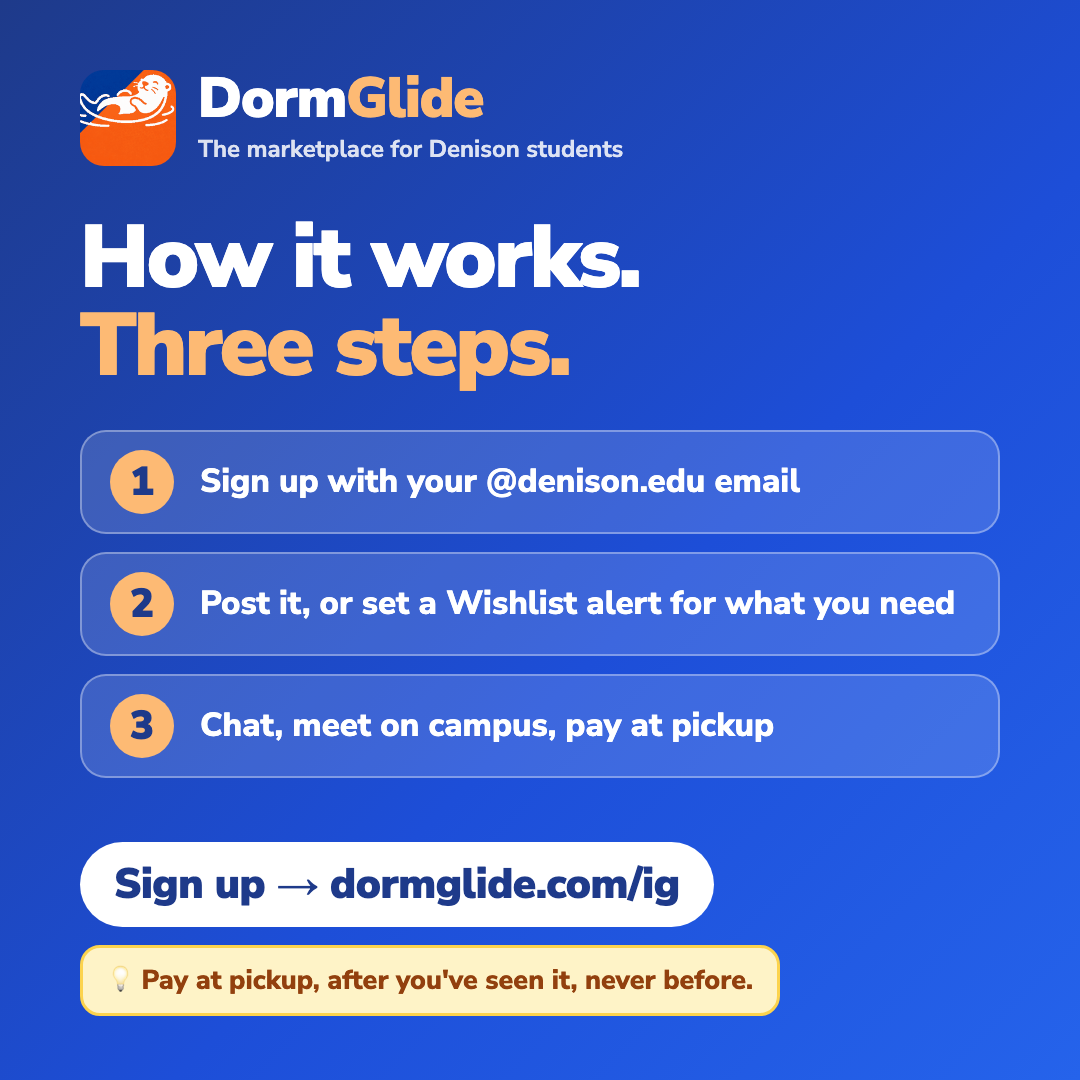
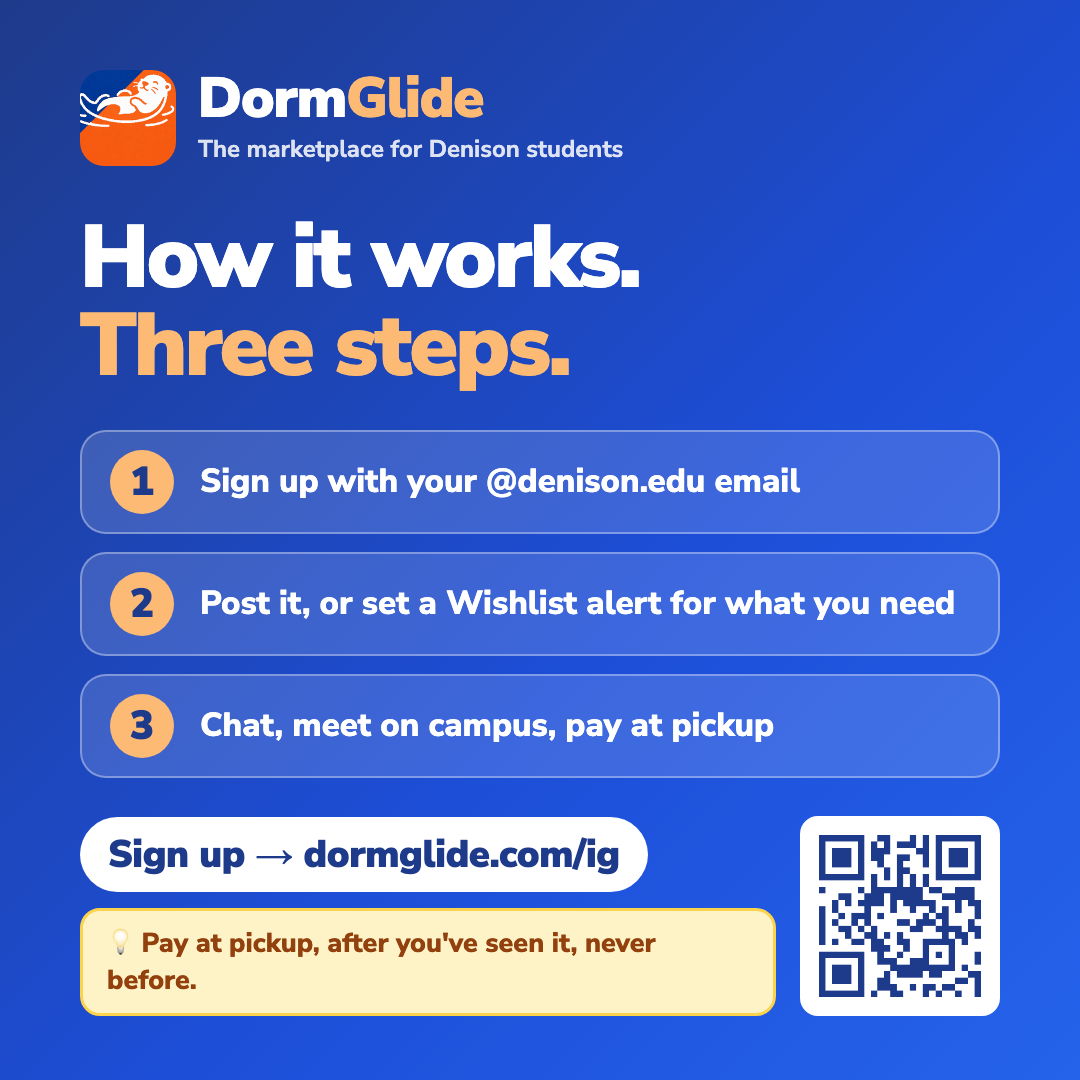
Instagram: QR code to /ig on every post and story; forgiving 404 redirect for typed short links

Changed region(s): [[0.0611, 0.7333, 0.9472, 0.9472]]

diff --git a/marketing/instagram/04-sold-apple-pencil.html b/marketing/instagram/04-sold-apple-pencil.html
@@ -26,6 +26,6 @@ p.lead { font-size:34px; line-height:1.3; font-weight:700; margin:26px 0 0; max-
 .url { font-size:42px; font-weight:900; letter-spacing:-0.01em; background:#fff; color:#1e3a8a; border-radius:999px; padding:14px 34px; } .orange .url { color:#c2410c; }
 .rule { background:#fef3c7; color:#92400e; border:3px solid #fcd34d; border-radius:20px; padding:14px 24px; font-size:27px; font-weight:800; }
 .otter { position:absolute; right:60px; top:230px; width:380px; opacity:.95; filter:drop-shadow(0 12px 30px rgba(0,0,0,.25)); }
-</style></head><body><div class="post"><div class="top"><img src="otter-mark.png"><div><div class="wm">Dorm<em>Glide</em></div><div class="tag">The marketplace for Denison students</div></div></div><div class="ribbon">SOLD</div><h1>Small stuff<br><span>sells too.</span></h1>
+.bottom{flex-direction:row !important;align-items:flex-end !important;justify-content:space-between;gap:24px} .bl{display:flex;flex-direction:column;align-items:flex-start;gap:16px} .bqr{width:200px;height:200px;border-radius:18px;border:6px solid #fff;background:#fff;flex-shrink:0} .url{font-size:38px !important;padding:12px 28px !important;white-space:nowrap}.sold img.photo{width:170px !important;height:210px !important} .sold{margin-top:36px !important;padding:22px 30px !important} h1{font-size:80px !important;margin-top:36px !important} p.lead{font-size:30px !important;margin-top:20px !important}</style></head><body><div class="post"><div class="top"><img src="otter-mark.png"><div><div class="wm">Dorm<em>Glide</em></div><div class="tag">The marketplace for Denison students</div></div></div><div class="ribbon">SOLD</div><h1>Small stuff<br><span>sells too.</span></h1>
    <div class="sold"><img class="photo" src="apple-pencil.jpg"><div><div class="name">Apple Pencil</div><div class="meta">Sold by a Denison student to a Denison student</div></div></div>
-   <p class="lead">Textbooks, chargers, lamps, calculators. If you're done with it, someone isn't.</p><div class="bottom"><div class="url">Sign up → dormglide.com/ig</div><div class="rule">💡 Free to use. No fees, ever.</div></div></div></body></html>
+   <p class="lead">Textbooks, chargers, lamps, calculators. If you're done with it, someone isn't.</p><div class="bottom"><div class="bl"><div class="url">Sign up → dormglide.com/ig</div><div class="rule">💡 Free to use. No fees, ever.</div></div><img class="bqr" src="qr-ig.png"></div></div></body></html>

diff --git a/marketing/instagram/stories/s2-how-it-works.html b/marketing/instagram/stories/s2-how-it-works.html
@@ -24,4 +24,4 @@ p.lead{font-size:42px;line-height:1.32;font-weight:700;margin:44px 0 0;opacity:.
 .orange .cta{color:#c2410c}
 .url{font-size:34px;font-weight:800;text-align:center;opacity:.95}
 .rule{background:#fef3c7;color:#92400e;border:3px solid #fcd34d;border-radius:22px;padding:18px 26px;font-size:30px;font-weight:800;text-align:center}
-</style></head><body><div class="story"><div class="top"><img src="otter-mark.png"><div><div class="wm">Dorm<em>Glide</em></div><div class="tag">The marketplace for Denison students</div></div></div><h1>How it works.<br><span>Three steps.</span></h1><div class="steps"><div class="step"><div class="n">1</div><div class="t">Sign up with your @denison.edu email</div></div><div class="step"><div class="n">2</div><div class="t">Post it, or set a Wishlist alert for what you need</div></div><div class="step"><div class="n">3</div><div class="t">Chat, meet on campus, pay at pickup</div></div></div><div class="bottom"><div class="cta">dormglide.com/ig</div><div class="url">Type it in your browser. Takes one minute.</div><div class="rule">💡 Pay at pickup, after you've seen it, never before.</div></div></div></body></html>
+.qrrow{display:flex;align-items:center;gap:30px} .sqr{width:270px;height:270px;border-radius:24px;border:8px solid #fff;background:#fff;flex-shrink:0} .qrtxt{flex:1;display:flex;flex-direction:column;gap:16px} .cta{font-size:50px !important;padding:26px 18px !important} .url{font-size:28px !important}</style></head><body><div class="story"><div class="top"><img src="otter-mark.png"><div><div class="wm">Dorm<em>Glide</em></div><div class="tag">The marketplace for Denison students</div></div></div><h1>How it works.<br><span>Three steps.</span></h1><div class="steps"><div class="step"><div class="n">1</div><div class="t">Sign up with your @denison.edu email</div></div><div class="step"><div class="n">2</div><div class="t">Post it, or set a Wishlist alert for what you need</div></div><div class="step"><div class="n">3</div><div class="t">Chat, meet on campus, pay at pickup</div></div></div><div class="bottom"><div class="qrrow"><img class="sqr" src="qr-ig.png"><div class="qrtxt"><div class="cta">dormglide.com/ig</div><div class="url">Scan the code, or type the address</div></div></div><div class="rule">💡 Pay at pickup, after you've seen it, never before.</div></div></div></body></html>

diff --git a/marketing/instagram/stories/s4-glyde.html b/marketing/instagram/stories/s4-glyde.html
@@ -24,4 +24,4 @@ p.lead{font-size:42px;line-height:1.32;font-weight:700;margin:44px 0 0;opacity:.
 .orange .cta{color:#c2410c}
 .url{font-size:34px;font-weight:800;text-align:center;opacity:.95}
 .rule{background:#fef3c7;color:#92400e;border:3px solid #fcd34d;border-radius:22px;padding:18px 26px;font-size:30px;font-weight:800;text-align:center}
-</style></head><body><div class="story orange"><div class="top"><img src="otter-mark.png"><div><div class="wm">Dorm<em>Glide</em></div><div class="tag">Glyde · skills, by students</div></div></div><h1>Need a hand?<br><span>Book a student.</span></h1><div class="steps"><div class="step"><div class="n">🚚</div><div class="t">Move-in &amp; move-out help</div></div><div class="step"><div class="n">📚</div><div class="t">Tutoring · Rides · Food &amp; drink · Hair</div></div><div class="step"><div class="n">✨</div><div class="t">Or offer your skill and get paid</div></div></div><div class="bottom"><div class="cta">dormglide.com/ig</div><div class="url">Type it in your browser. Takes one minute.</div><div class="rule">💡 Switch to Glyde inside the app.</div></div></div></body></html>
+.qrrow{display:flex;align-items:center;gap:30px} .sqr{width:270px;height:270px;border-radius:24px;border:8px solid #fff;background:#fff;flex-shrink:0} .qrtxt{flex:1;display:flex;flex-direction:column;gap:16px} .cta{font-size:50px !important;padding:26px 18px !important} .url{font-size:28px !important}</style></head><body><div class="story orange"><div class="top"><img src="otter-mark.png"><div><div class="wm">Dorm<em>Glide</em></div><div class="tag">Glyde · skills, by students</div></div></div><h1>Need a hand?<br><span>Book a student.</span></h1><div class="steps"><div class="step"><div class="n">🚚</div><div class="t">Move-in &amp; move-out help</div></div><div class="step"><div class="n">📚</div><div class="t">Tutoring · Rides · Food &amp; drink · Hair</div></div><div class="step"><div class="n">✨</div><div class="t">Or offer your skill and get paid</div></div></div><div class="bottom"><div class="qrrow"><img class="sqr" src="qr-ig-orange.png"><div class="qrtxt"><div class="cta">dormglide.com/ig</div><div class="url">Scan the code, or type the address</div></div></div><div class="rule">💡 Switch to Glyde inside the app.</div></div></div></body></html>

diff --git a/marketing/instagram/stories/s5-wishlist.html b/marketing/instagram/stories/s5-wishlist.html
@@ -24,4 +24,4 @@ p.lead{font-size:42px;line-height:1.32;font-weight:700;margin:44px 0 0;opacity:.
 .orange .cta{color:#c2410c}
 .url{font-size:34px;font-weight:800;text-align:center;opacity:.95}
 .rule{background:#fef3c7;color:#92400e;border:3px solid #fcd34d;border-radius:22px;padding:18px 26px;font-size:30px;font-weight:800;text-align:center}
-</style></head><body><div class="story"><div class="top"><img src="otter-mark.png"><div><div class="wm">Dorm<em>Glide</em></div><div class="tag">The marketplace for Denison students</div></div></div><h1>Looking for<br><span>something?</span></h1><p class="lead">Set a Wishlist alert. The moment a matching item is posted, we email you. First come, first served. 🔔</p><div class="steps"><div class="step"><div class="n">🔔</div><div class="t">Wishlist → Add alert → "mini fridge under $50"</div></div></div><div class="bottom"><div class="cta">dormglide.com/ig</div><div class="url">Type it in your browser. Takes one minute.</div><div class="rule">💡 Pay at pickup, after you've seen it, never before.</div></div></div></body></html>
+.qrrow{display:flex;align-items:center;gap:30px} .sqr{width:270px;height:270px;border-radius:24px;border:8px solid #fff;background:#fff;flex-shrink:0} .qrtxt{flex:1;display:flex;flex-direction:column;gap:16px} .cta{font-size:50px !important;padding:26px 18px !important} .url{font-size:28px !important}</style></head><body><div class="story"><div class="top"><img src="otter-mark.png"><div><div class="wm">Dorm<em>Glide</em></div><div class="tag">The marketplace for Denison students</div></div></div><h1>Looking for<br><span>something?</span></h1><p class="lead">Set a Wishlist alert. The moment a matching item is posted, we email you. First come, first served. 🔔</p><div class="steps"><div class="step"><div class="n">🔔</div><div class="t">Wishlist → Add alert → "mini fridge under $50"</div></div></div><div class="bottom"><div class="qrrow"><img class="sqr" src="qr-ig.png"><div class="qrtxt"><div class="cta">dormglide.com/ig</div><div class="url">Scan the code, or type the address</div></div></div><div class="rule">💡 Pay at pickup, after you've seen it, never before.</div></div></div></body></html>

diff --git a/marketing/instagram/03-sold-fridge.html b/marketing/instagram/03-sold-fridge.html
@@ -26,6 +26,6 @@ p.lead { font-size:36px; line-height:1.35; font-weight:700; margin:34px 0 0; max
 .url { font-size:42px; font-weight:900; letter-spacing:-0.01em; background:#fff; color:#1e3a8a; border-radius:999px; padding:14px 34px; } .orange .url { color:#c2410c; }
 .rule { background:#fef3c7; color:#92400e; border:3px solid #fcd34d; border-radius:20px; padding:14px 24px; font-size:27px; font-weight:800; }
 .otter { position:absolute; right:60px; top:230px; width:380px; opacity:.95; filter:drop-shadow(0 12px 30px rgba(0,0,0,.25)); }
-</style></head><body><div class="post"><div class="top"><img src="otter-mark.png"><div><div class="wm">Dorm<em>Glide</em></div><div class="tag">The marketplace for Denison students</div></div></div><div class="ribbon">SOLD</div><h1>Mini fridge.<br><span>Gone in a day.</span></h1>
+.bottom{flex-direction:row !important;align-items:flex-end !important;justify-content:space-between;gap:24px} .bl{display:flex;flex-direction:column;align-items:flex-start;gap:16px} .bqr{width:200px;height:200px;border-radius:18px;border:6px solid #fff;background:#fff;flex-shrink:0} .url{font-size:38px !important;padding:12px 28px !important;white-space:nowrap}</style></head><body><div class="post"><div class="top"><img src="otter-mark.png"><div><div class="wm">Dorm<em>Glide</em></div><div class="tag">The marketplace for Denison students</div></div></div><div class="ribbon">SOLD</div><h1>Mini fridge.<br><span>Gone in a day.</span></h1>
    <div class="sold"><div class="g">🧊</div><div><div class="name">Mini fridge</div><div class="meta">Buyer requested → seller accepted → met on campus → done</div></div></div>
-   <p class="lead">List it in 60 seconds. Denison students only.</p><div class="bottom"><div class="url">Sign up → dormglide.com/ig</div><div class="rule">💡 Pay at pickup, after you've seen it, never before.</div></div></div></body></html>
+   <p class="lead">List it in 60 seconds. Denison students only.</p><div class="bottom"><div class="bl"><div class="url">Sign up → dormglide.com/ig</div><div class="rule">💡 Pay at pickup, after you've seen it, never before.</div></div><img class="bqr" src="qr-ig.png"></div></div></body></html>

diff --git a/marketing/instagram/01-how-it-works.html b/marketing/instagram/01-how-it-works.html
@@ -26,9 +26,9 @@ p.lead { font-size:36px; line-height:1.35; font-weight:700; margin:34px 0 0; max
 .url { font-size:42px; font-weight:900; letter-spacing:-0.01em; background:#fff; color:#1e3a8a; border-radius:999px; padding:14px 34px; } .orange .url { color:#c2410c; }
 .rule { background:#fef3c7; color:#92400e; border:3px solid #fcd34d; border-radius:20px; padding:14px 24px; font-size:27px; font-weight:800; }
 .otter { position:absolute; right:60px; top:230px; width:380px; opacity:.95; filter:drop-shadow(0 12px 30px rgba(0,0,0,.25)); }
-</style></head><body><div class="post"><div class="top"><img src="otter-mark.png"><div><div class="wm">Dorm<em>Glide</em></div><div class="tag">The marketplace for Denison students</div></div></div><h1>How it works.<br><span>Three steps.</span></h1>
+.bottom{flex-direction:row !important;align-items:flex-end !important;justify-content:space-between;gap:24px} .bl{display:flex;flex-direction:column;align-items:flex-start;gap:16px} .bqr{width:200px;height:200px;border-radius:18px;border:6px solid #fff;background:#fff;flex-shrink:0} .url{font-size:38px !important;padding:12px 28px !important;white-space:nowrap}</style></head><body><div class="post"><div class="top"><img src="otter-mark.png"><div><div class="wm">Dorm<em>Glide</em></div><div class="tag">The marketplace for Denison students</div></div></div><h1>How it works.<br><span>Three steps.</span></h1>
    <div class="steps">
    <div class="step"><div class="n">1</div><div class="t">Sign up with your @denison.edu email</div></div>
    <div class="step"><div class="n">2</div><div class="t">Post it, or set a Wishlist alert for what you need</div></div>
    <div class="step"><div class="n">3</div><div class="t">Chat, meet on campus, pay at pickup</div></div>
-   </div><div class="bottom"><div class="url">Sign up → dormglide.com/ig</div><div class="rule">💡 Pay at pickup, after you've seen it, never before.</div></div></div></body></html>
+   </div><div class="bottom"><div class="bl"><div class="url">Sign up → dormglide.com/ig</div><div class="rule">💡 Pay at pickup, after you've seen it, never before.</div></div><img class="bqr" src="qr-ig.png"></div></div></body></html>

diff --git a/marketing/instagram/02-sold-ac.html b/marketing/instagram/02-sold-ac.html
@@ -26,6 +26,6 @@ p.lead { font-size:34px; line-height:1.3; font-weight:700; margin:26px 0 0; max-
 .url { font-size:42px; font-weight:900; letter-spacing:-0.01em; background:#fff; color:#1e3a8a; border-radius:999px; padding:14px 34px; } .orange .url { color:#c2410c; }
 .rule { background:#fef3c7; color:#92400e; border:3px solid #fcd34d; border-radius:20px; padding:14px 24px; font-size:27px; font-weight:800; }
 .otter { position:absolute; right:60px; top:230px; width:380px; opacity:.95; filter:drop-shadow(0 12px 30px rgba(0,0,0,.25)); }
-</style></head><body><div class="post"><div class="top"><img src="otter-mark.png"><div><div class="wm">Dorm<em>Glide</em></div><div class="tag">The marketplace for Denison students</div></div></div><div class="ribbon">SOLD</div><h1>It's already<br><span>working.</span></h1>
+.bottom{flex-direction:row !important;align-items:flex-end !important;justify-content:space-between;gap:24px} .bl{display:flex;flex-direction:column;align-items:flex-start;gap:16px} .bqr{width:200px;height:200px;border-radius:18px;border:6px solid #fff;background:#fff;flex-shrink:0} .url{font-size:38px !important;padding:12px 28px !important;white-space:nowrap}</style></head><body><div class="post"><div class="top"><img src="otter-mark.png"><div><div class="wm">Dorm<em>Glide</em></div><div class="tag">The marketplace for Denison students</div></div></div><div class="ribbon">SOLD</div><h1>It's already<br><span>working.</span></h1>
    <div class="sold"><img class="photo" src="ac.jpg"><div><div class="name">Window AC unit</div><div class="meta">Listed on DormGlide · picked up on campus · paid at pickup</div></div></div>
-   <p class="lead">Someone on campus is looking for what's sitting in your room.</p><div class="bottom"><div class="url">Sign up → dormglide.com/ig</div><div class="rule">💡 Free to use. No fees, ever.</div></div></div></body></html>
+   <p class="lead">Someone on campus is looking for what's sitting in your room.</p><div class="bottom"><div class="bl"><div class="url">Sign up → dormglide.com/ig</div><div class="rule">💡 Free to use. No fees, ever.</div></div><img class="bqr" src="qr-ig.png"></div></div></body></html>

diff --git a/marketing/instagram/06-wishlist.html b/marketing/instagram/06-wishlist.html
@@ -26,7 +26,7 @@ p.lead { font-size:36px; line-height:1.35; font-weight:700; margin:34px 0 0; max
 .url { font-size:42px; font-weight:900; letter-spacing:-0.01em; background:#fff; color:#1e3a8a; border-radius:999px; padding:14px 34px; } .orange .url { color:#c2410c; }
 .rule { background:#fef3c7; color:#92400e; border:3px solid #fcd34d; border-radius:20px; padding:14px 24px; font-size:27px; font-weight:800; }
 .otter { position:absolute; right:60px; top:230px; width:380px; opacity:.95; filter:drop-shadow(0 12px 30px rgba(0,0,0,.25)); }
-</style></head><body><div class="post"><div class="top"><img src="otter-mark.png"><div><div class="wm">Dorm<em>Glide</em></div><div class="tag">The marketplace for Denison students</div></div></div><img class="otter" src="otter-hero-white.png"><h1>Looking for<br>something?</h1>
+.bottom{flex-direction:row !important;align-items:flex-end !important;justify-content:space-between;gap:24px} .bl{display:flex;flex-direction:column;align-items:flex-start;gap:16px} .bqr{width:200px;height:200px;border-radius:18px;border:6px solid #fff;background:#fff;flex-shrink:0} .url{font-size:38px !important;padding:12px 28px !important;white-space:nowrap}</style></head><body><div class="post"><div class="top"><img src="otter-mark.png"><div><div class="wm">Dorm<em>Glide</em></div><div class="tag">The marketplace for Denison students</div></div></div><img class="otter" src="otter-hero-white.png"><h1>Looking for<br>something?</h1>
    <p class="lead">Set a Wishlist alert. The moment a matching item is posted, we email you. First come, first served.</p>
    <div class="steps" style="margin-top:80px"><div class="step"><div class="n">🔔</div><div class="t">Wishlist → Add alert → "mini fridge under $50"</div></div></div>
-   <div class="bottom"><div class="url">Sign up → dormglide.com/ig</div><div class="rule">💡 Pay at pickup, after you've seen it, never before.</div></div></div></body></html>
+   <div class="bottom"><div class="bl"><div class="url">Sign up → dormglide.com/ig</div><div class="rule">💡 Pay at pickup, after you've seen it, never before.</div></div><img class="bqr" src="qr-ig.png"></div></div></body></html>

diff --git a/marketing/instagram/05-glyde.html b/marketing/instagram/05-glyde.html
@@ -26,9 +26,9 @@ p.lead { font-size:36px; line-height:1.35; font-weight:700; margin:34px 0 0; max
 .url { font-size:42px; font-weight:900; letter-spacing:-0.01em; background:#fff; color:#1e3a8a; border-radius:999px; padding:14px 34px; } .orange .url { color:#c2410c; }
 .rule { background:#fef3c7; color:#92400e; border:3px solid #fcd34d; border-radius:20px; padding:14px 24px; font-size:27px; font-weight:800; }
 .otter { position:absolute; right:60px; top:230px; width:380px; opacity:.95; filter:drop-shadow(0 12px 30px rgba(0,0,0,.25)); }
-</style></head><body><div class="post orange"><div class="top"><img src="otter-mark.png"><div><div class="wm">Dorm<em>Glide</em></div><div class="tag">Glyde · skills, by students</div></div></div><h1>Need a hand?<br><span>Book a student.</span></h1>
+.bottom{flex-direction:row !important;align-items:flex-end !important;justify-content:space-between;gap:24px} .bl{display:flex;flex-direction:column;align-items:flex-start;gap:16px} .bqr{width:200px;height:200px;border-radius:18px;border:6px solid #fff;background:#fff;flex-shrink:0} .url{font-size:38px !important;padding:12px 28px !important;white-space:nowrap}</style></head><body><div class="post orange"><div class="top"><img src="otter-mark.png"><div><div class="wm">Dorm<em>Glide</em></div><div class="tag">Glyde · skills, by students</div></div></div><h1>Need a hand?<br><span>Book a student.</span></h1>
    <div class="steps">
    <div class="step"><div class="n">🚚</div><div class="t">Move-in &amp; move-out help</div></div>
    <div class="step"><div class="n">📚</div><div class="t">Tutoring · Rides · Food &amp; drink</div></div>
    <div class="step"><div class="n">✨</div><div class="t">Or offer your own skill and get paid</div></div>
-   </div><div class="bottom"><div class="url">Sign up → dormglide.com/ig</div><div class="rule">💡 Switch to Glyde inside the app.</div></div></div></body></html>
+   </div><div class="bottom"><div class="bl"><div class="url">Sign up → dormglide.com/ig</div><div class="rule">💡 Switch to Glyde inside the app.</div></div><img class="bqr" src="qr-ig-orange.png"></div></div></body></html>

diff --git a/marketing/instagram/stories/s1-what-is-dormglide.html b/marketing/instagram/stories/s1-what-is-dormglide.html
@@ -24,4 +24,4 @@ p.lead{font-size:42px;line-height:1.32;font-weight:700;margin:44px 0 0;opacity:.
 .orange .cta{color:#c2410c}
 .url{font-size:34px;font-weight:800;text-align:center;opacity:.95}
 .rule{background:#fef3c7;color:#92400e;border:3px solid #fcd34d;border-radius:22px;padding:18px 26px;font-size:30px;font-weight:800;text-align:center}
-</style></head><body><div class="story"><div class="top"><img src="otter-mark.png"><div><div class="wm">Dorm<em>Glide</em></div><div class="tag">The marketplace for Denison students</div></div></div><img class="otter" src="otter-hero-white.png"><h1>Your campus.<br>Your stuff.<br><span>Your skills.</span></h1><p class="lead">Buy &amp; sell dorm stuff with Denison students. Book tutors, rides, and move-in help. Free, no fees, campus only.</p><div class="bottom"><div class="cta">dormglide.com/ig</div><div class="url">Type it in your browser. Takes one minute.</div><div class="rule">💡 Pay at pickup, after you've seen it, never before.</div></div></div></body></html>
+.qrrow{display:flex;align-items:center;gap:30px} .sqr{width:270px;height:270px;border-radius:24px;border:8px solid #fff;background:#fff;flex-shrink:0} .qrtxt{flex:1;display:flex;flex-direction:column;gap:16px} .cta{font-size:50px !important;padding:26px 18px !important} .url{font-size:28px !important}</style></head><body><div class="story"><div class="top"><img src="otter-mark.png"><div><div class="wm">Dorm<em>Glide</em></div><div class="tag">The marketplace for Denison students</div></div></div><img class="otter" src="otter-hero-white.png"><h1>Your campus.<br>Your stuff.<br><span>Your skills.</span></h1><p class="lead">Buy &amp; sell dorm stuff with Denison students. Book tutors, rides, and move-in help. Free, no fees, campus only.</p><div class="bottom"><div class="qrrow"><img class="sqr" src="qr-ig.png"><div class="qrtxt"><div class="cta">dormglide.com/ig</div><div class="url">Scan the code, or type the address</div></div></div><div class="rule">💡 Pay at pickup, after you've seen it, never before.</div></div></div></body></html>

diff --git a/marketing/instagram/stories/s3-sold-ac.html b/marketing/instagram/stories/s3-sold-ac.html
@@ -24,4 +24,4 @@ p.lead{font-size:42px;line-height:1.32;font-weight:700;margin:44px 0 0;opacity:.
 .orange .cta{color:#c2410c}
 .url{font-size:34px;font-weight:800;text-align:center;opacity:.95}
 .rule{background:#fef3c7;color:#92400e;border:3px solid #fcd34d;border-radius:22px;padding:18px 26px;font-size:30px;font-weight:800;text-align:center}
-</style></head><body><div class="story"><div class="top"><img src="otter-mark.png"><div><div class="wm">Dorm<em>Glide</em></div><div class="tag">The marketplace for Denison students</div></div></div><div class="ribbon">SOLD</div><h1>It's already<br><span>working.</span></h1><div class="sold"><img src="ac.jpg"><div><div class="name">Window AC unit</div><div class="meta">Listed · picked up on campus · paid at pickup</div></div></div><div class="bottom"><div class="cta">dormglide.com/ig</div><div class="url">Type it in your browser. Takes one minute.</div><div class="rule">💡 Free to use. No fees, ever.</div></div></div></body></html>
+.qrrow{display:flex;align-items:center;gap:30px} .sqr{width:270px;height:270px;border-radius:24px;border:8px solid #fff;background:#fff;flex-shrink:0} .qrtxt{flex:1;display:flex;flex-direction:column;gap:16px} .cta{font-size:50px !important;padding:26px 18px !important} .url{font-size:28px !important}</style></head><body><div class="story"><div class="top"><img src="otter-mark.png"><div><div class="wm">Dorm<em>Glide</em></div><div class="tag">The marketplace for Denison students</div></div></div><div class="ribbon">SOLD</div><h1>It's already<br><span>working.</span></h1><div class="sold"><img src="ac.jpg"><div><div class="name">Window AC unit</div><div class="meta">Listed · picked up on campus · paid at pickup</div></div></div><div class="bottom"><div class="qrrow"><img class="sqr" src="qr-ig.png"><div class="qrtxt"><div class="cta">dormglide.com/ig</div><div class="url">Scan the code, or type the address</div></div></div><div class="rule">💡 Free to use. No fees, ever.</div></div></div></body></html>

diff --git a/404.html b/404.html
@@ -1,0 +1,16 @@
+<!DOCTYPE html>
+<html lang="en"><head><meta charset="UTF-8"><meta name="viewport" content="width=device-width, initial-scale=1.0">
+<meta name="robots" content="noindex"><title>DormGlide</title><link rel="icon" href="/favicon.ico?v=2">
+<script>
+  // Typed addresses are messy: /IG, /Ig/, /ig. , /lg ... Send them where they meant to go.
+  (function () {
+    var p = (location.pathname || '').toLowerCase().replace(/[^a-z0-9]/g, '');
+    var map = { ig: 'instagram', lg: 'instagram', insta: 'instagram', instagram: 'instagram', p: 'poster-dorm', g: 'poster-glyde', glyde: 'poster-glyde', signup: 'direct', join: 'direct' };
+    var ref = map[p] || 'typed-url';
+    try { if (!localStorage.getItem('dormglide_ref')) localStorage.setItem('dormglide_ref', ref); } catch (e) {}
+    try { sessionStorage.setItem('dormglide_about_seen', '1'); } catch (e) {}
+    try { if (ref === 'poster-glyde') localStorage.setItem('dormglide_mode', 'glyde'); } catch (e) {}
+    location.replace('/app.html?auth=signup&ref=' + ref);
+  })();
+</script></head>
+<body style="font-family:Arial,sans-serif;padding:24px;text-align:center"><p>Opening DormGlide… <a href="/app.html?auth=signup">Continue</a></p></body></html>
